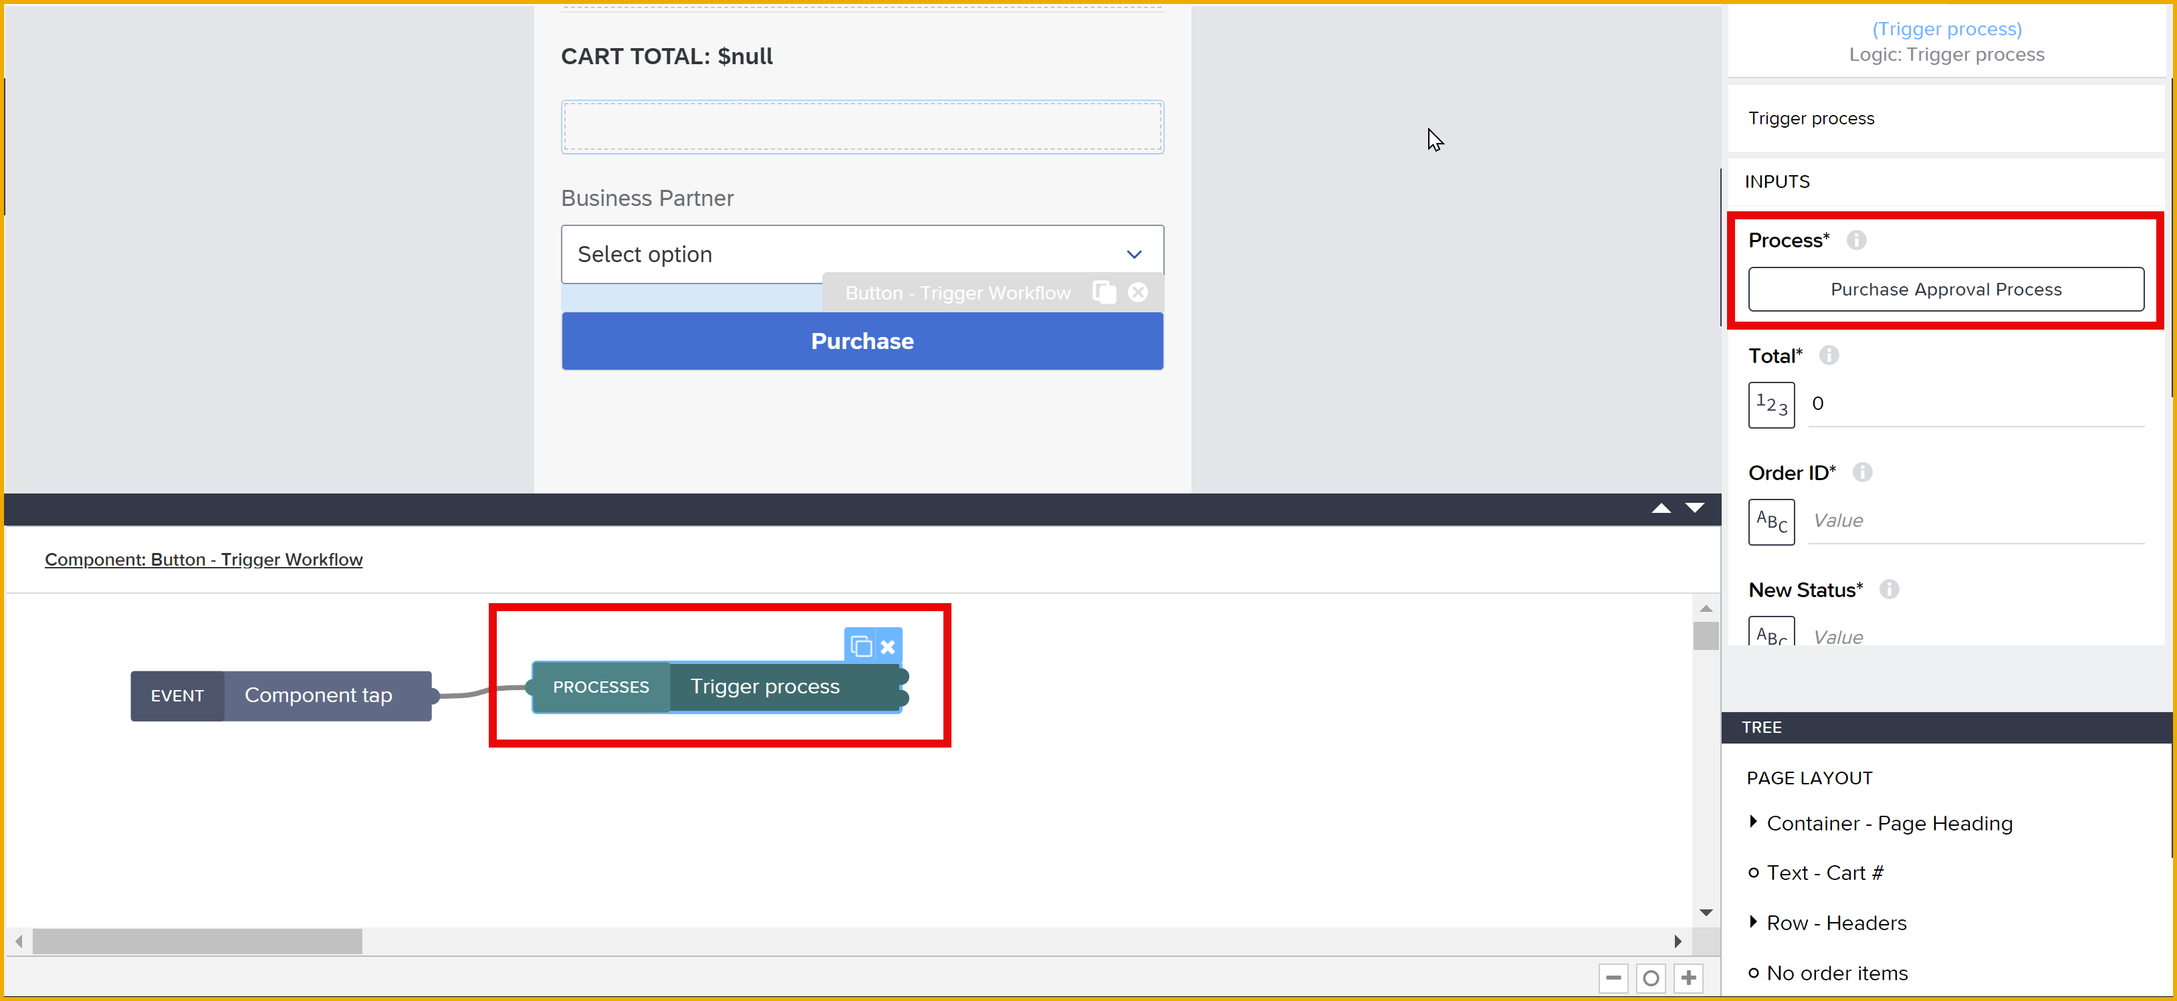
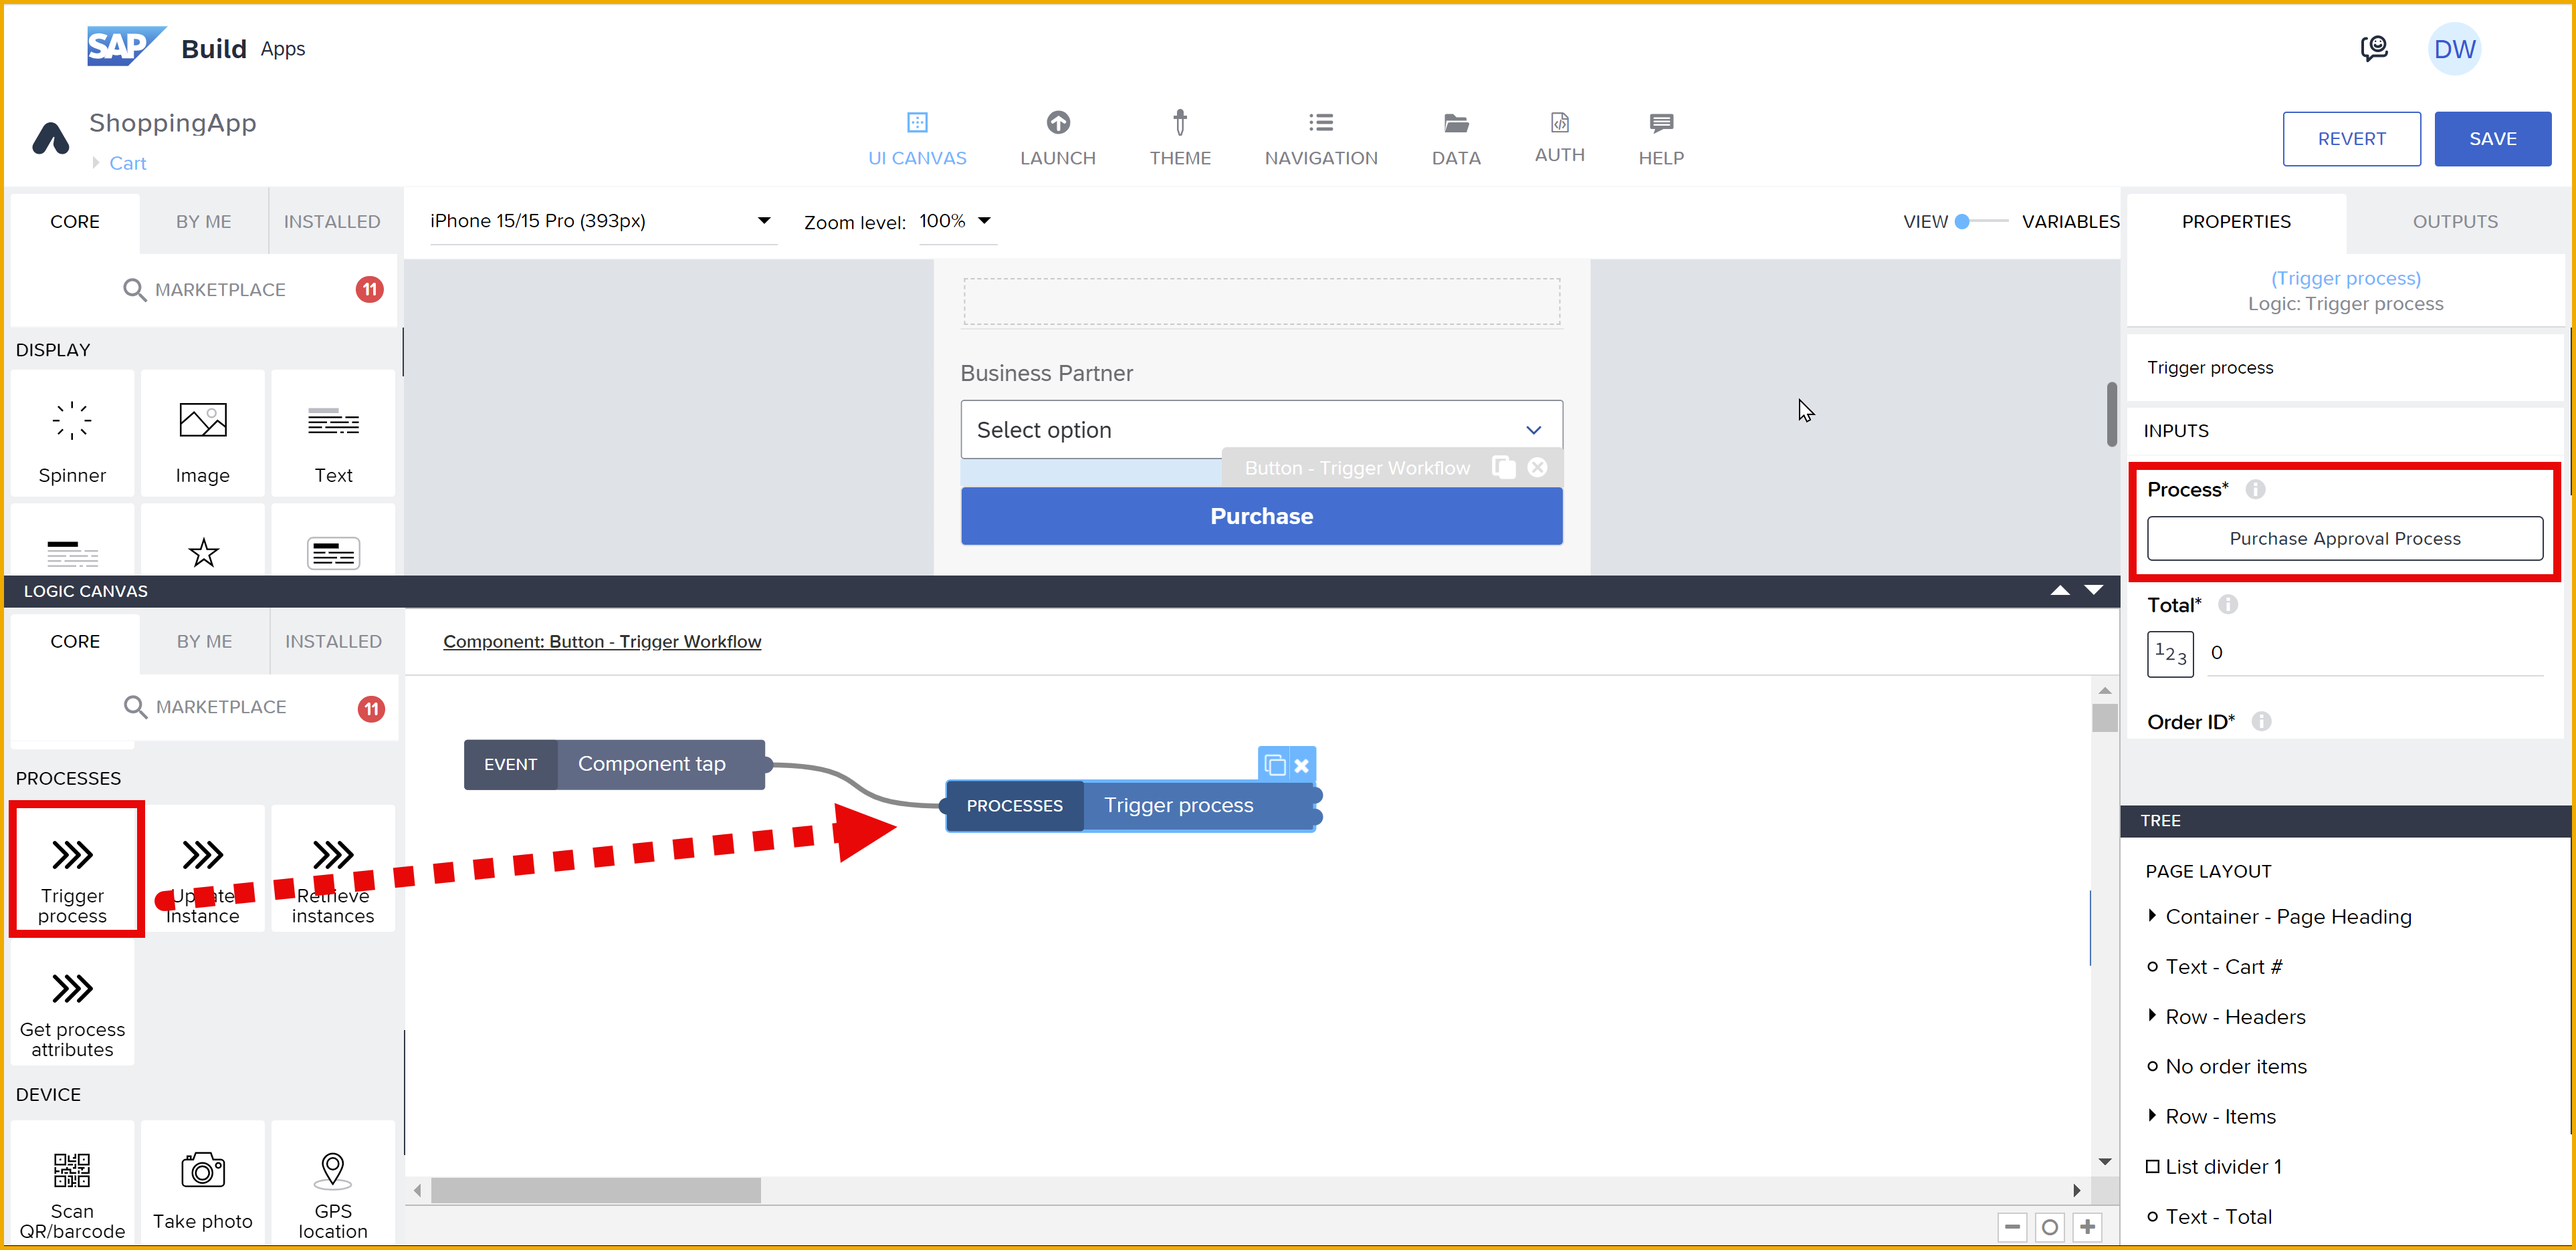
Publish 14 (conditional formatting) and fix tutorial 7

diff --git a/tutorials/codejam-14-conditional-formatting/codejam-14-conditional-formatting.md b/tutorials/codejam-14-conditional-formatting/codejam-14-conditional-formatting.md
@@ -1,0 +1,108 @@
+---
+parser: v2
+author_name: Ian Thain
+author_profile: https://github.com/ithain
+auto_validation: true
+time: 15
+tags: [ tutorial>beginner, software-product>sap-business-technology-platform,software-product>sap-build, software-product>sap-build-apps--enterprise-edition, software-product>sap-build-process-automation]
+primary_tag: software-product>sap-build
+---
+  
+
+# Implement Conditional Formatting to Change Color Based on Data  
+<!-- description --> Amend the shopping cart page - to highlight any items that have a Unit Quantity of 50 or higher – as part of the SAP Build CodeJam.
+
+
+
+## Prerequisites
+- You have completed the tutorial for the SAP Build CodeJam, [Implement Spinner for Product Details Page](codejam-13-spinner).
+
+
+
+
+
+## You will learn
+- How to use a formula to change a row background color.
+
+
+
+
+
+## Intro
+In this exercise, you will be enhancing the **Cart** page of the SAP Build CodeJam app with data and functionality.
+
+Specifically, you will change the background color of the row showing the cart entries. If the quantity ordered is less than 5 the color will be white, and if it is 5 or more the background color will be changed to amber.
+
+
+
+
+
+### Amend the Cart Page
+
+1. Open the **Cart** page.
+
+2. Select the **Row - Items** component.
+
+    ![Row - Cart Item](row-cart-item.png)
+
+3. In the **Style** tab, click on the **Background color**, likely set to **Home**.
+
+    ![Background color](style-background.png)
+
+4. Select the **NEW PALETTE** item.
+
+    ![New Palette Item](new-palette.png)
+
+5. Select **Formula**.
+
+    ![Edit Formula](formula1.png)
+
+    Then click the existing formula, which is just a string representing a color.
+
+    ![Open formula editor](formula2.png)
+
+    Enter the following formula:
+    
+    ```JavaScript
+    IF(repeated.current.quantity > 4, "#f0ab00", "#f7f7f7")
+    ```
+    
+    ![Edit Formula](edit-formula.png)
+
+    Click **Submit**, and then save your formula by clicking **Convert**.
+
+
+    ![Edit Formula](background-convert.png)
+
+6.  Click **Save** (upper right).
+
+
+
+
+
+
+
+
+### Test the App
+
+1. Open the app again.
+
+2. Select **Notebook Basic 15**.
+
+    Keep the quantity as 1 and then click **Add to Cart**.
+
+    ![Cart product 1](run-cart.png)
+
+3. Go back to the home page, and select **ITelO Vault**.
+   
+    This time change the quantity to 10, and click **Add to Cart**.
+
+    ![Cart product 2](run-cart2.png)
+
+4. Open the **Cart** page. 
+   
+    You should see that the **ITelO Vault** order item is highlighted.
+
+    ![Cart highlight](run-cart3.png)
+
+

diff --git a/tutorials/codejam-07-connect-app-process/codejam-07-connect-app-process.md b/tutorials/codejam-07-connect-app-process/codejam-07-connect-app-process.md
@@ -181,35 +181,19 @@ Now that you enabled the process, let's set up the logic to trigger it.
 
     Go to the **Cart** page.
 
-3. Click on the **Purchase** button.
+2. Click on the **Purchase** button.
 
     Open up the button's logic canvas.
 
     ![Trigger](images/trigger1.png)
 
-4. Click **Marketplace**.
-
-    ![Marketplace](images/trigger2.png)
-    
-    Search for **Trigger Process**.
-    
-    ![Search](images/trigger3.png)
-    
-    Select the **Trigger Process** flow function, and click **Install**.
-
-    ![Install](images/trigger4.png)    
-
-    The flow function is added to the **Installed** tab.
-    
-    ![Installed](images/trigger5.png)
-
-5. With the **Purchase** button still selected, drag a **Trigger process** flow function onto the canvas, and connect it to the **Component Tap** event.
+3. From the **Core** tab on the left, drag a **Trigger process** flow function onto the canvas, and connect it to the **Component Tap** event.
 
     The process should automatically have your process selected for the **Process** field.
 
     ![Add flow function](images/trigger6.png)
 
-6. You now need to bind all the fields that the process needs.
+4. You now need to bind all the fields that the process needs.
 
     Bind the fields as follows:
 
